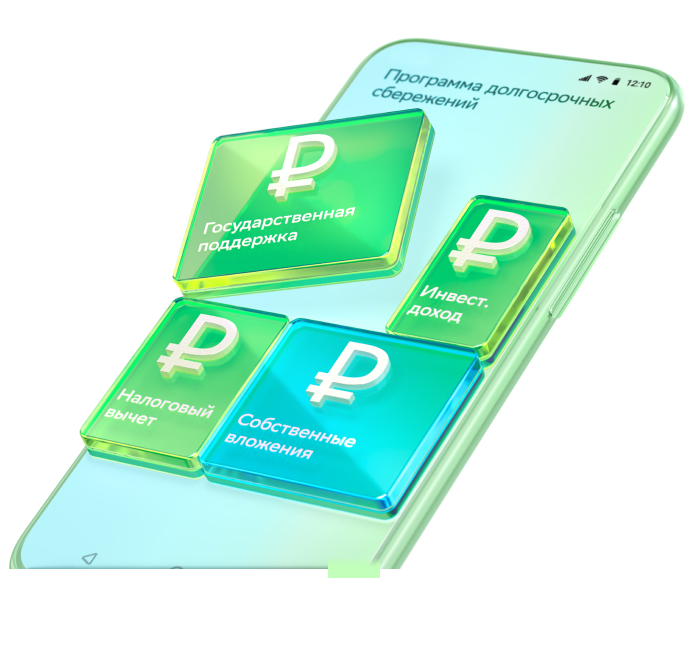
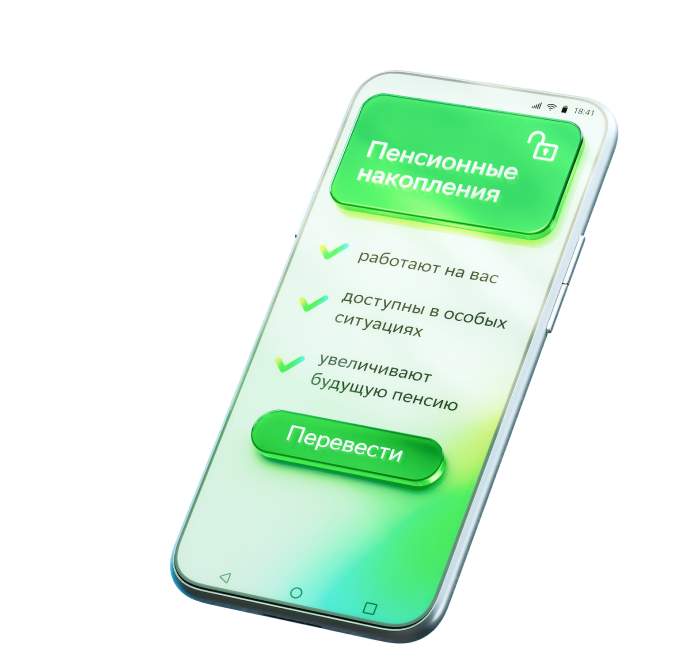
контентные правки

diff --git a/nuxt.config.js b/nuxt.config.js
@@ -15,18 +15,18 @@ export default {
       { name: 'format-detection', content: 'telephone=no' }
     ],
     link: [
-      // { rel: 'icon', type: 'image/x-icon', href: '/favicon.ico' }
+      { rel: 'icon', type: 'image/x-icon', href: '/favicon.ico' }
       // { rel: 'icon', type: 'image/x-icon', href: '/promo/pds/test/favicon.ico' }
-      { rel: 'icon', type: 'image/x-icon', href: '/promo/pds/favicon.ico' }
+      // { rel: 'icon', type: 'image/x-icon', href: '/promo/pds/favicon.ico' }
     ],
     script: [
-      // { src: '/gtm.js', type: 'text/javascript', async: true },
+      { src: '/gtm.js', type: 'text/javascript', async: true },
       // { src: '/promo/pds/test/gtm.js', type: 'text/javascript', async: true },
-      { src: '/promo/pds/gtm.js', type: 'text/javascript', async: true },
+      // { src: '/promo/pds/gtm.js', type: 'text/javascript', async: true },
 
-      // { src: '/top-mail-ru.js', type: 'text/javascript', async: true }
+      { src: '/top-mail-ru.js', type: 'text/javascript', async: true }
       // { src: '/promo/pds/test/top-mail-ru.js', type: 'text/javascript', async: true }
-      { src: '/promo/pds/top-mail-ru.js', type: 'text/javascript', async: true }
+      // { src: '/promo/pds/top-mail-ru.js', type: 'text/javascript', async: true }
     ]
   },
 

diff --git a/components/AppHero/AppHero.vue b/components/AppHero/AppHero.vue
@@ -44,8 +44,8 @@ export default {
   data () {
     return {
       timer: false,
-      title: ['Программа', 'долгосрочных', 'сбережений'],
-      text: 'Копите на любые цели и&nbsp;получайте поддержку от&nbsp;государства',
+      title: ['Разморозьте', 'свои пенсионные', 'накопления'],
+      text: 'Переведите их на личный счет',
       items: [
         {
           title: '«Разморозьте» пенсионные накопления и&nbsp;сделайте их&nbsp;частью своего капитала',
@@ -82,9 +82,8 @@ export default {
         }
       ],
       image: {
-        alt: 'Программа долгосрочных сбережений',
-        src: 'images/hero/image-2.png',
-        srcset: ['images/hero/image-2.png', 'images/hero/image-2@2x.png']
+        src: 'images/hero/image-1.png',
+        alt: 'Разморозьте свои пенсионные накопления'
       }
     };
   },

diff --git a/components/AppHero/AppHero.scss b/components/AppHero/AppHero.scss
@@ -4,7 +4,6 @@
   position: relative;
   color: $color-black;
 
-
   &__background {
     position: absolute;
     top: 0;
@@ -49,17 +48,16 @@
       height: toRem(664);
     }
     @include media-breakpoint-only(md) {
-      right: 0;
-      bottom: toRem(-76);
-      width: toRem(480);
-      height: toRem(459);
+      right: toRem(-22);
+      bottom: toRem(-128);
+      width: toRem(595);
+      height: toRem(568);
     }
     @include media-breakpoint-down(sm) {
-      left: 13%;
-      transform: translateX(-13%);
-      bottom: toRem(-38);
-      width: toRem(240);
-      height: toRem(229);
+      bottom: toRem(-80);
+      left: toRem(-28);
+      width: toRem(320);
+      height: toRem(306);
     }
   }
 

diff --git a/components/AppHeader/AppHeader.vue b/components/AppHeader/AppHeader.vue
@@ -96,7 +96,8 @@ export default {
         external: true,
         href: '#promo',
         target: '#promo',
-        size: 'small'
+        size: 'small',
+        theme: 'gradient'
       }
     };
   },

diff --git a/components/AppPromo/AppPromo.vue b/components/AppPromo/AppPromo.vue
@@ -48,7 +48,7 @@ export default {
       ],
       image: {
         alt: '',
-        src: 'images/promo/image-1.png'
+        src: 'images/promo/image-2.png'
       }
     };
   }
